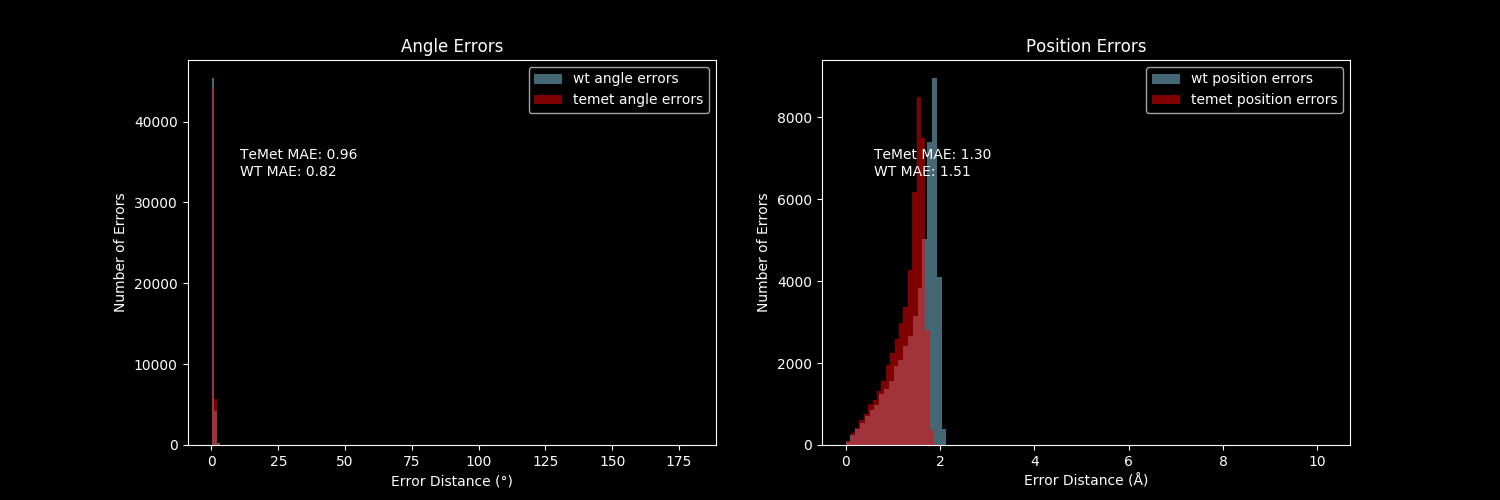
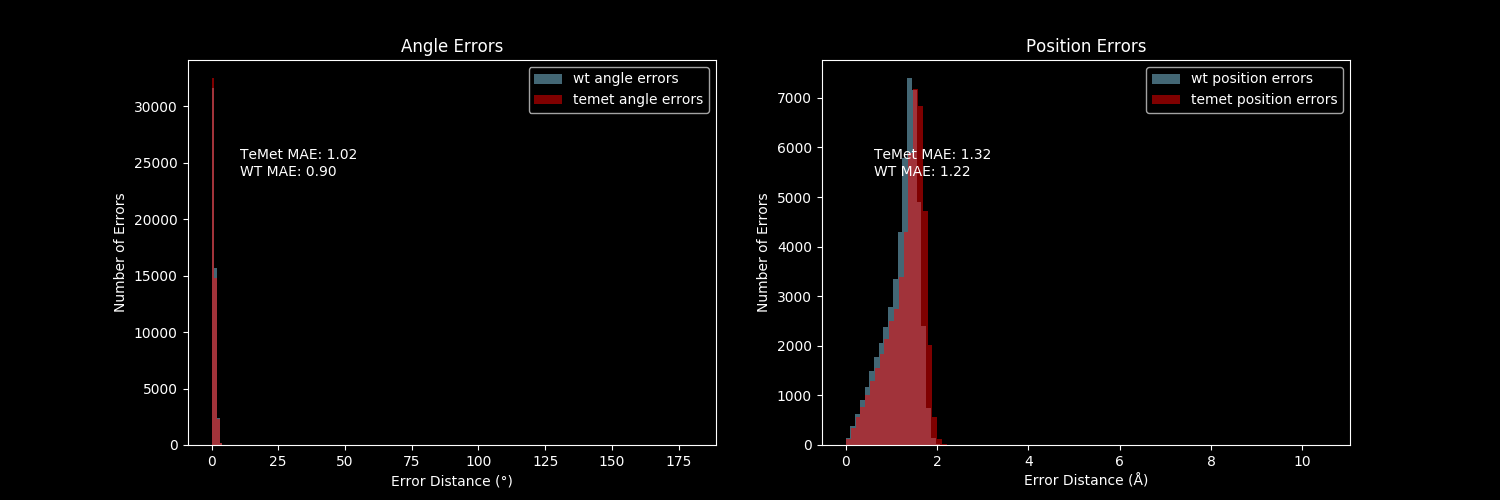
Debugging Alignment Analyzer

diff --git a/analyze_alignment.py b/analyze_alignment.py
@@ -27,6 +27,9 @@ def main(args):
 	print('reading experimental data...')
 	temet_experimental = read_experimental(path+'temet_' + which + '.par')
 	wt_experimental = read_experimental(path+'wt_' + which + '.par')
+
+
+
 	assert len(temet_experimental) == len(wt_experimental), 'experimental parfiles have inconsistent lengths'
 
 	assert len(temet_experimental) == len(temet_theoretical), 'experimental and theoretical particle files have inconsistent lengths'
@@ -126,15 +129,57 @@ def quat2euler(q):
 	return alpha, beta, gamma
 
 # Angular distance between two quaternions
+
+def quatInverse(q):
+	d = q[0]**2 + q[1]**2 + q[2]**2 + q[3]**2
+	d = 1
+	return [q[0]/d, -q[1]/d, -q[2]/d, -q[3]/d]
+
+def quatConj(q):
+	return [q[0],-q[1],-q[2],-q[3]]
+
 def quatDist(a,b):
 	# Check to verify that quaternions are unit lengths
 	assert abs(math.sqrt(a[0]**2+a[1]**2+a[2]**2+a[3]**2)-1)<.001,"a is not a unit quaternion"
 	assert abs(math.sqrt(b[0]**2+b[1]**2+b[2]**2+b[3]**2)-1)<.001,"b is not a unit quaternion"
-	
-	# Compute distance
+
+	# # # Compute distance
 	s = a[0]*b[0] + a[1]*b[1] + a[2]*b[2] + a[3]*b[3]
+	s = round(s,4)
+
 	s = 2*(s**2)-1
-	return np.arccos(s)*180/np.pi
+	other = (np.arccos(s))*180/np.pi
+	return other
+
+	# z = a*quatConj(b)
+	# theta = 2*np.arccos(z[0])
+	# o = abs(theta*180/np.pi - 180)
+	# print("Method2: %f"%o)
+	# return abs(theta*180/np.pi - 180)
+
+
+
+	# a = quatInverse(a)
+
+	# s = [a[0]*b[0] , a[1]*b[1] , a[2]*b[2] , a[3]*b[3]]
+
+	# l = math.sqrt(s[0]**2+s[1]**2+s[2]**2+s[3]**2)
+
+	# o = 2*math.atan2(l,s[3])
+
+	# return (o*180/np.pi)
+
+	# # print("s = %f" % s)
+	# # assert s <= 1, "product greater than 1"
+	# # assert s >= -1, "product less than -1"
+
+	# try:
+	# 	output = 2*np.arccos(s)*180/np.pi
+	# 	return output
+	# except:
+	# 	e = sys.exc_info()[0]
+	# 	print("Quat Distance Error: %s" % e)
+	# 	return 50
 
 # Given two ordered lists of quaternions, compute distances between each angle
 def computeAngleErrors(A, B):
